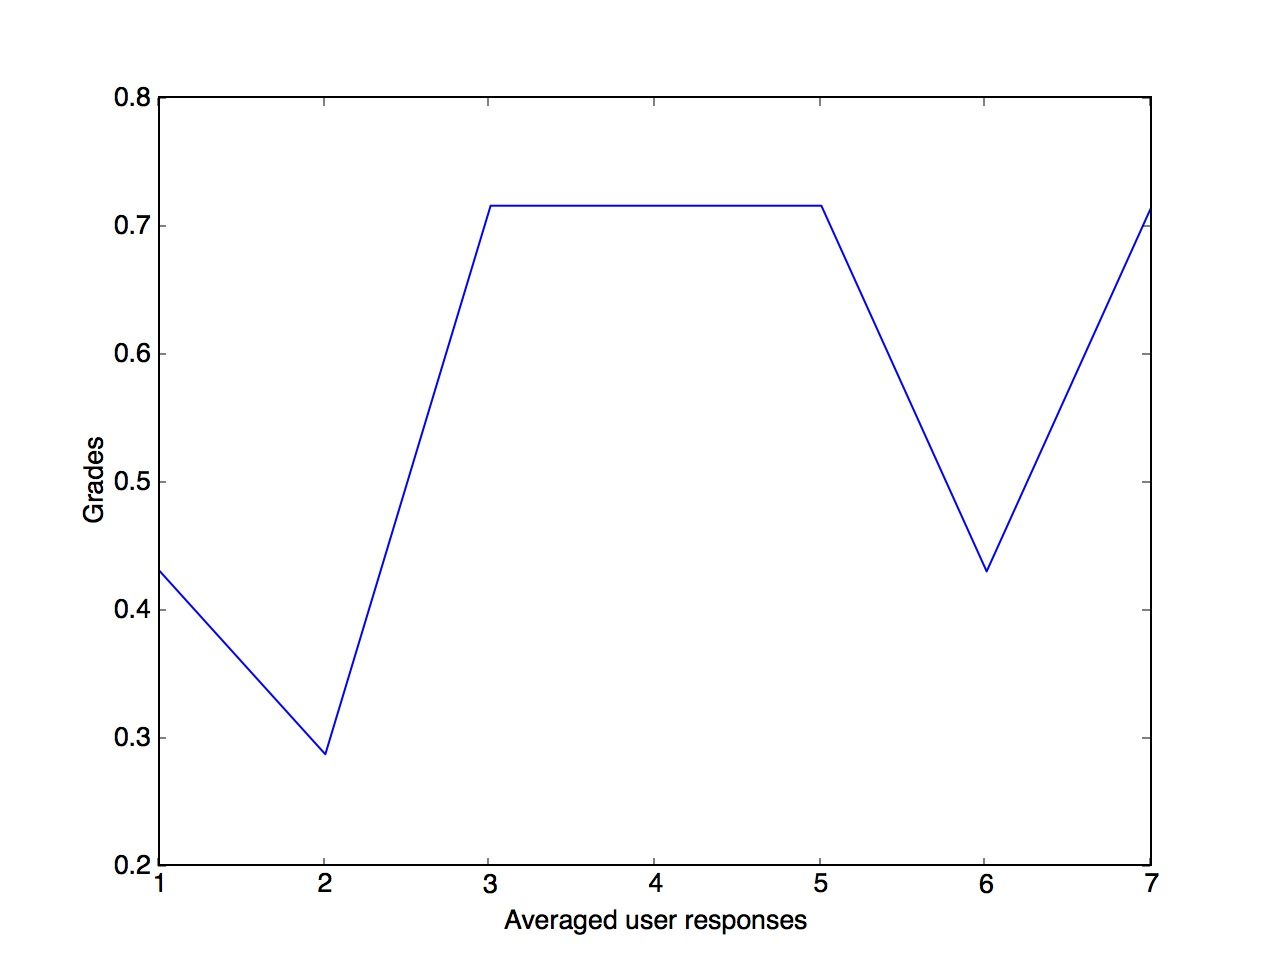
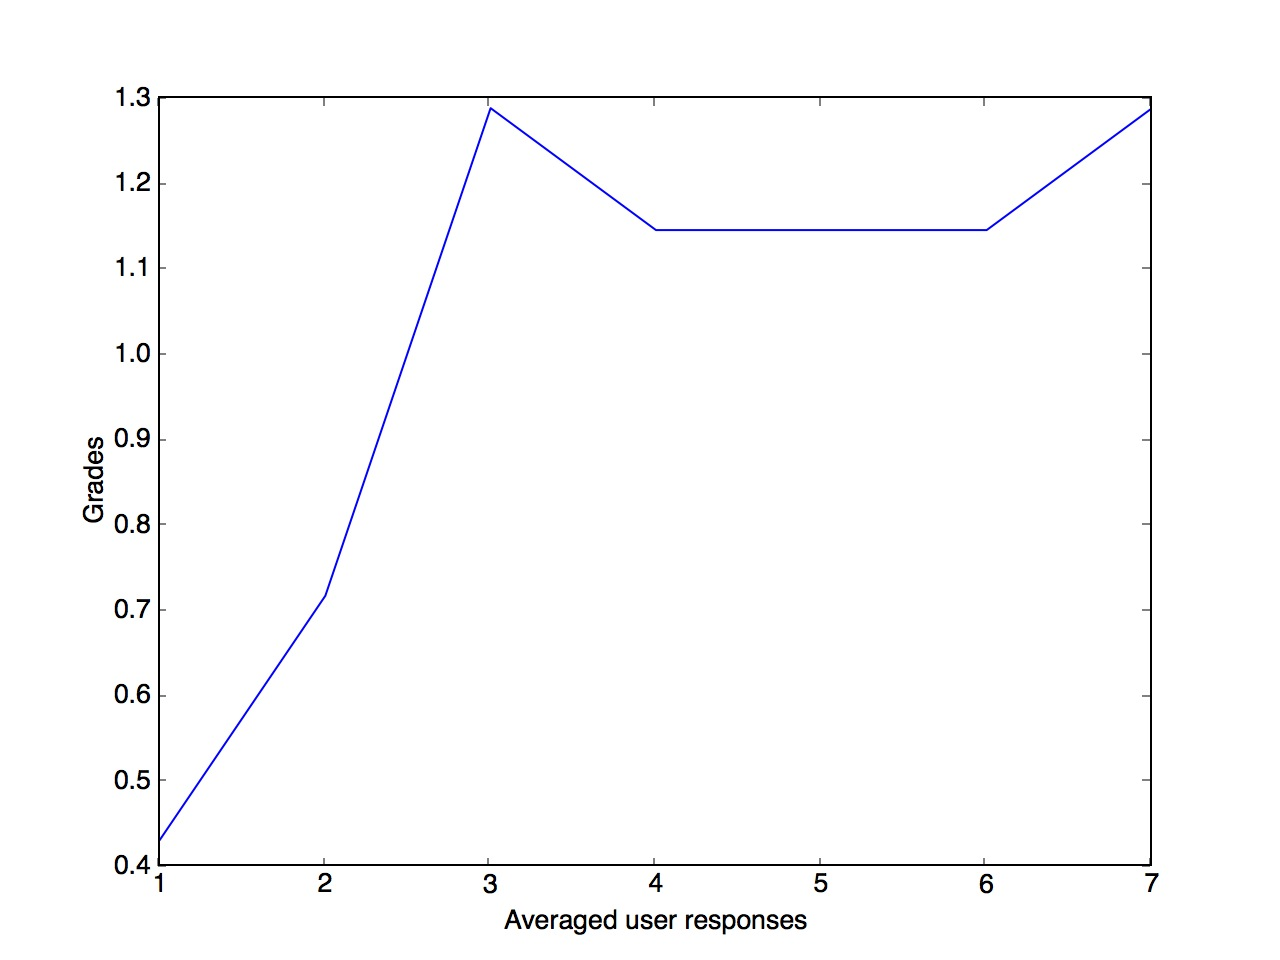
Some fix to the app

diff --git a/app.js b/app.js
@@ -120,7 +120,9 @@ app.post("/seeResults", function(req, res) {
       else {
         keys = cacheKeys;
         keys.forEach(function(key, pos) {
+         if (key.match(/.*\@.*/) === null) {
           cache.get(key, function(err, result) {
+
             var result = JSON.parse(result);
             userResponse[key] = [];
             for (var i = 0; i < myKeys.length; i++) {
@@ -128,6 +130,7 @@ app.post("/seeResults", function(req, res) {
                 userResponse[key].push(result[myKeys[i]]);
             }
           });
+         }
         });
         setTimeout(function() {
           fs.writeFile("data.txt", JSON.stringify(userResponse), function(err) {
@@ -147,8 +150,6 @@ app.get("/seeResults/plot", function(req, res) {
   child = exec("python createPlot.py", function(err, stdout, stderr) {
     if (err)
       console.log("Error while creating plot: ", err);
-    else
-      console.log("success");
   });
   res.sendfile("img.html");
 });
